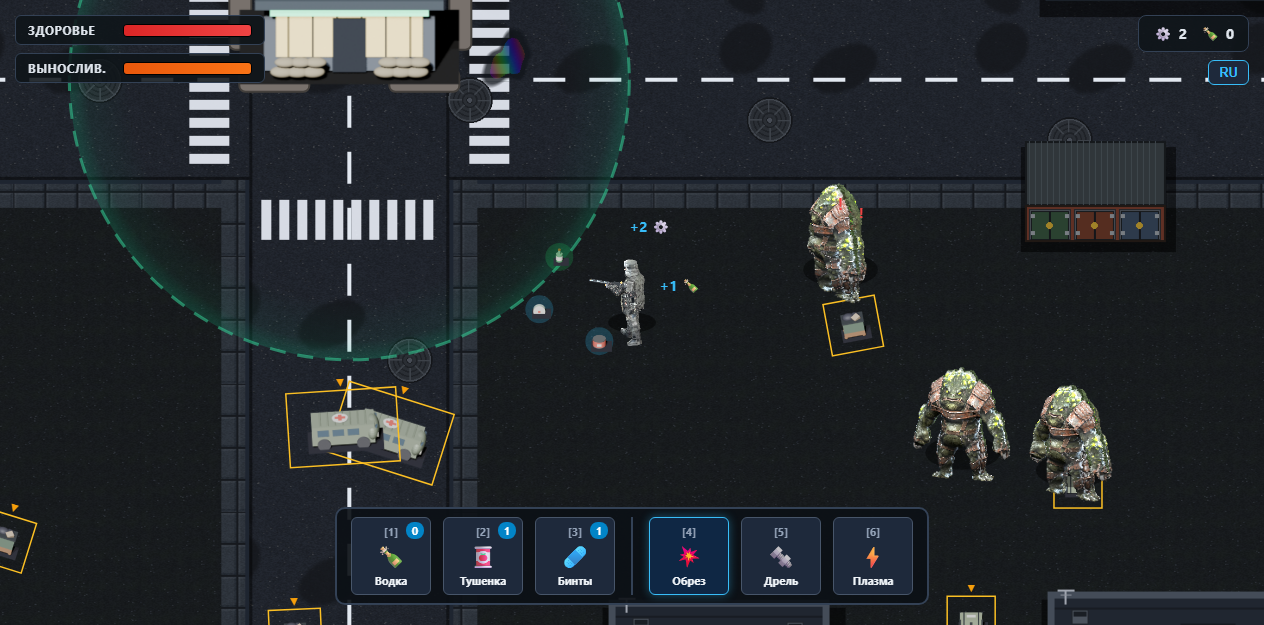
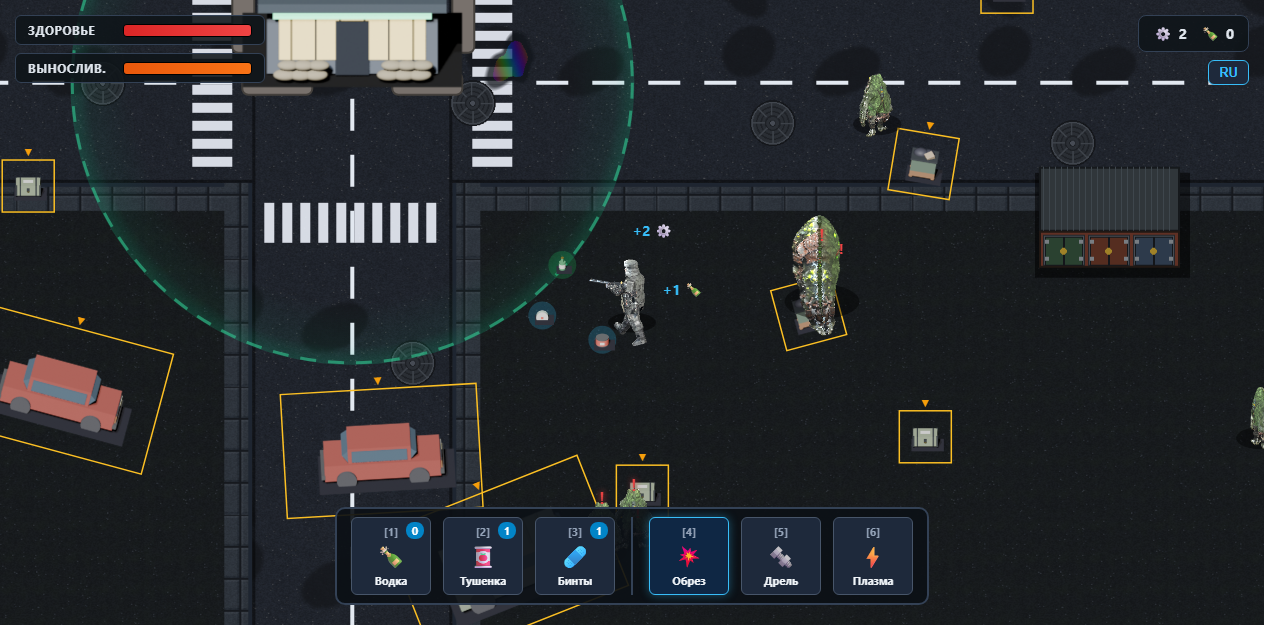
feat: calibrate realistic 1:1 scale for vehicles, fix container overlaps and building margin

diff --git a/src/environment.js b/src/environment.js
@@ -411,21 +411,23 @@ class EnvironmentRenderer {
         // Чередуем Жигули и УАЗик на основе координат
         const isUaz = ((Math.floor(c.x) + Math.floor(c.y)) % 2 === 0);
         img = isUaz ? this.props['car_uaz'] : this.props['car_zhiguli'];
-        // Реалистичные пропорции: легковой седан 100x62, УАЗ-буханка 106x70
-        drawW = isUaz ? 106 : 100;
-        drawH = isUaz ? 70 : 62;
+        // Настоящие физические пропорции автомобиля:
+        // Жигули: длина 192px (в 3 раза длиннее Василия), ширина 120px
+        // УАЗ-буханка: длина 204px, ширина 136px
+        drawW = isUaz ? 204 : 192;
+        drawH = isUaz ? 136 : 120;
         rot = ((c.x * 37) % 60 - 30) * (Math.PI / 180); // Легкий случайный наклон парковки
       } else if (c.type === 'trash') {
         img = this.props['trash_dumpster'];
-        // Мусорный бак ТБО: 48x48
-        drawW = 48;
-        drawH = 48;
+        // Мусорный бак ТБО: 58x58
+        drawW = 58;
+        drawH = 58;
         rot = ((c.y * 23) % 40 - 20) * (Math.PI / 180);
       } else {
-        // Военный ящик боеприпасов: 44x44
+        // Военный ящик боеприпасов: 48x48
         img = this.props['military_crate'];
-        drawW = 44;
-        drawH = 44;
+        drawW = 48;
+        drawH = 48;
       }
 
       ctx.save();

diff --git a/src/game.js b/src/game.js
@@ -1058,19 +1058,28 @@ function generateWorld() {
     const cy = Math.random() * (WORLD_HEIGHT - 400) + 200;
     if (Math.hypot(cx - safeZone.x, cy - safeZone.y) < 340) continue;
 
-    // Проверяем, чтобы контейнер не спавнился внутри здания
+    // Проверяем, чтобы контейнер не спавнился внутри здания (с запасом на габариты машины)
     const insideBuilding = buildings.some(b => 
-      cx >= b.x - 30 && cx <= b.x + b.w + 30 &&
-      cy >= b.y - 30 && cy <= b.y + b.h + 30
+      cx >= b.x - 70 && cx <= b.x + b.w + 70 &&
+      cy >= b.y - 70 && cy <= b.y + b.h + 70
     );
     if (insideBuilding) continue;
 
     const types = ['trash', 'car', 'box'];
+    const chosenType = types[Math.floor(Math.random() * types.length)];
+    const cRadius = chosenType === 'car' ? 48 : (chosenType === 'trash' ? 26 : 22);
+
+    // Не спавнить контейнеры поверх друг друга (дистанция не менее 130px)
+    const tooCloseToOther = containers.some(existing => 
+      Math.hypot(cx - existing.x, cy - existing.y) < (cRadius + existing.radius + 50)
+    );
+    if (tooCloseToOther) continue;
+
     containers.push({
       x: cx,
       y: cy,
-      radius: 22,
-      type: types[Math.floor(Math.random() * types.length)],
+      radius: cRadius,
+      type: chosenType,
       searched: false
     });
   }
